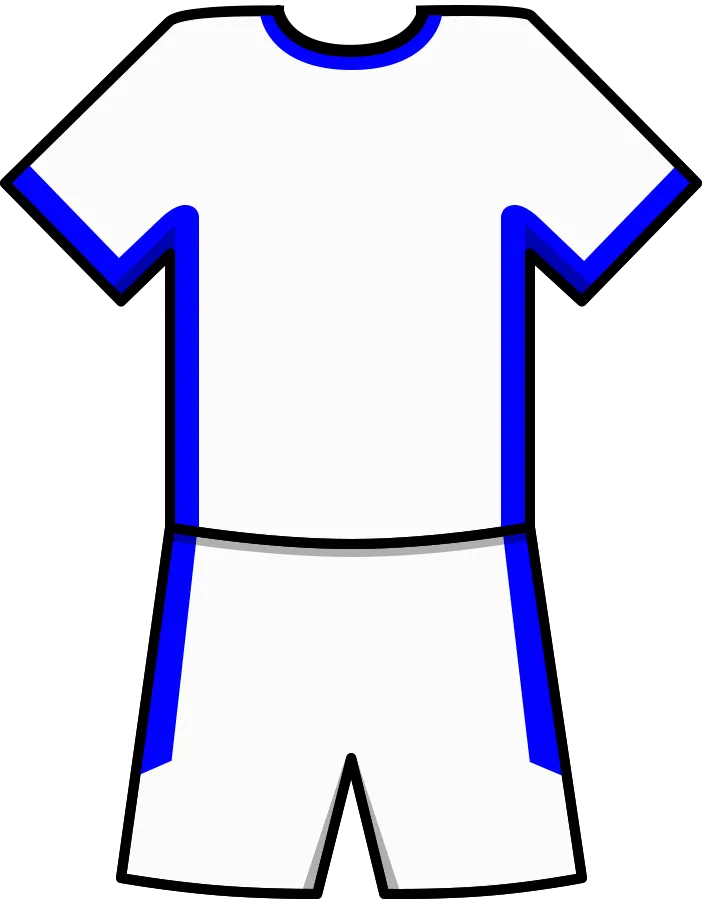
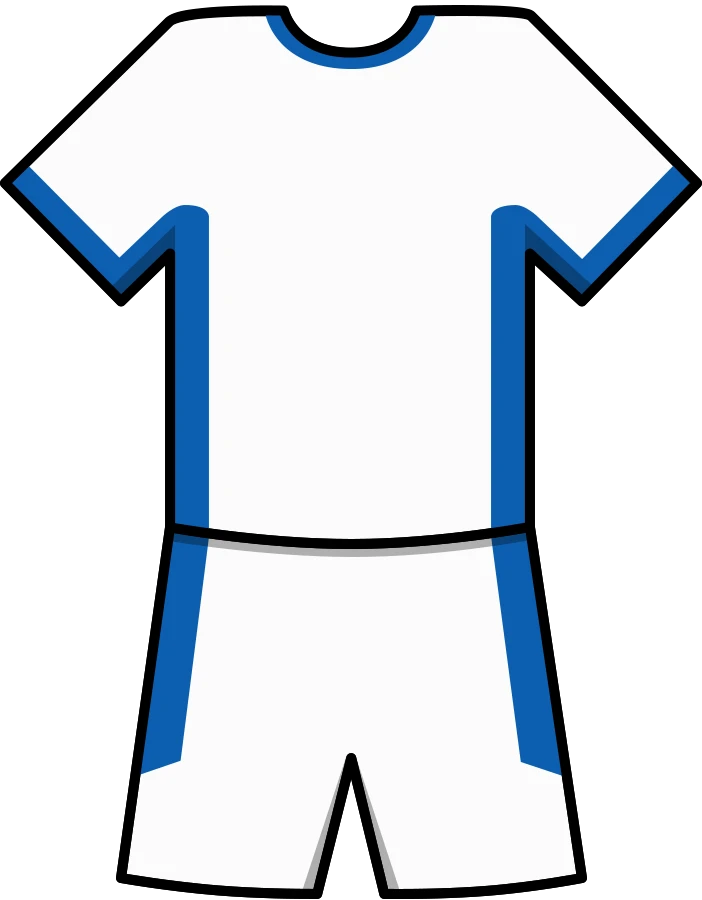
Add updated team kit assets

Changed region(s): [[0.688, 0.1867, 0.9872, 0.8711], [0.0, 0.1867, 0.2991, 0.8711], [0.359, 0.0, 0.6282, 0.0933]]

diff --git a/src/data/teamKits.ts b/src/data/teamKits.ts
@@ -93,8 +93,8 @@ const TEAM_KIT_STYLE_ROWS = [
   ['cr', '#CE1126', '#002B7F', '#FFFFFF', '#111111'],
   ['hr', '#FFFFFF', '#FF0000', '#0033A0', '#FFFFFF', '#0033A0'],
   ['cz', '#D7141A', '#11457E', '#FFFFFF', undefined, '#FFFFFF'],
-  ['dk', '#C60C30', '#FFFFFF', '#FFFFFF', '#111111'],
-  ['ec', '#FFD100', '#034EA2', '#034EA2', '#FFFFFF'],
+  ['dk', '#C60C30', '#FFFFFF', '#FFFFFF', undefined],
+  ['ec', '#FFFC00', '#034EA2', '#034EA2', '#253167', '#FFFFFF'],
   ['eg', '#CE1126', '#000000', '#FFFFFF', '#111111'],
   ['gb-eng', '#FFFFFF', '#1C2C5B', '#1C2C5B', '#FFFFFF'],
   ['fr', '#002654', '#FFFFFF', '#FFFFFF', undefined],
@@ -128,7 +128,7 @@ const TEAM_KIT_STYLE_ROWS = [
   ['sn', '#FFFFFF', '#00853F', '#00853F', '#FFFFFF'],
   ['rs', '#C6363C', '#0C4076', '#FFFFFF', undefined],
   ['sk', '#0052B4', '#FFFFFF', '#FFFFFF', undefined],
-  ['si', '#FFFFFF', '#005DA4', '#005DA4', '#FFFFFF'],
+  ['si', '#1D5C4A', '#FFFFFF', '#005DA4', '#1D5C4A', '#FFFFFF'],
   ['za', '#FFB81C', '#007749', '#007749', '#FFFFFF'],
   ['kr', '#E6002D', '#111111', '#111111', '#FFFFFF'],
   ['es', '#FF0000', '#F9C601', '#F9C601', '#08088E'],
@@ -138,7 +138,7 @@ const TEAM_KIT_STYLE_ROWS = [
   ['tr', '#E30A17', '#FFFFFF', '#FFFFFF', undefined, '#E30A17'],
   ['ua', '#FFD700', '#0057B8', '#0057B8', undefined],
   ['uy', '#5BC0EB', '#111111', '#111111', '#FFFFFF'],
-  ['us', '#FFFFFF', '#002868', '#002868', '#FFFFFF'],
+  ['us', '#FFFFFF', '#112B88', '#002868', undefined],
   ['uz', '#FFFFFF', '#0099B5', '#006B8F', '#FFFFFF'],
   ['ve', '#8A1538', '#F4C430', '#F4C430', '#111111'],
   ['gb-wls', '#C8102E', '#FFFFFF', '#FFFFFF', undefined]

diff --git a/src/tests/teamKits.test.ts b/src/tests/teamKits.test.ts
@@ -35,6 +35,7 @@ const EXPLICIT_SHIRT_NUMBER_COLOR_OVERRIDES = new Map<string, string>([
   ['ar', '#111111'],
   ['by', '#FFFFFF'],
   ['cz', '#FFFFFF'],
+  ['ec', '#FFFFFF'],
   ['gr', '#0D5EAF'],
   ['hr', '#0033A0'],
   ['ma', '#FFFFFF'],
